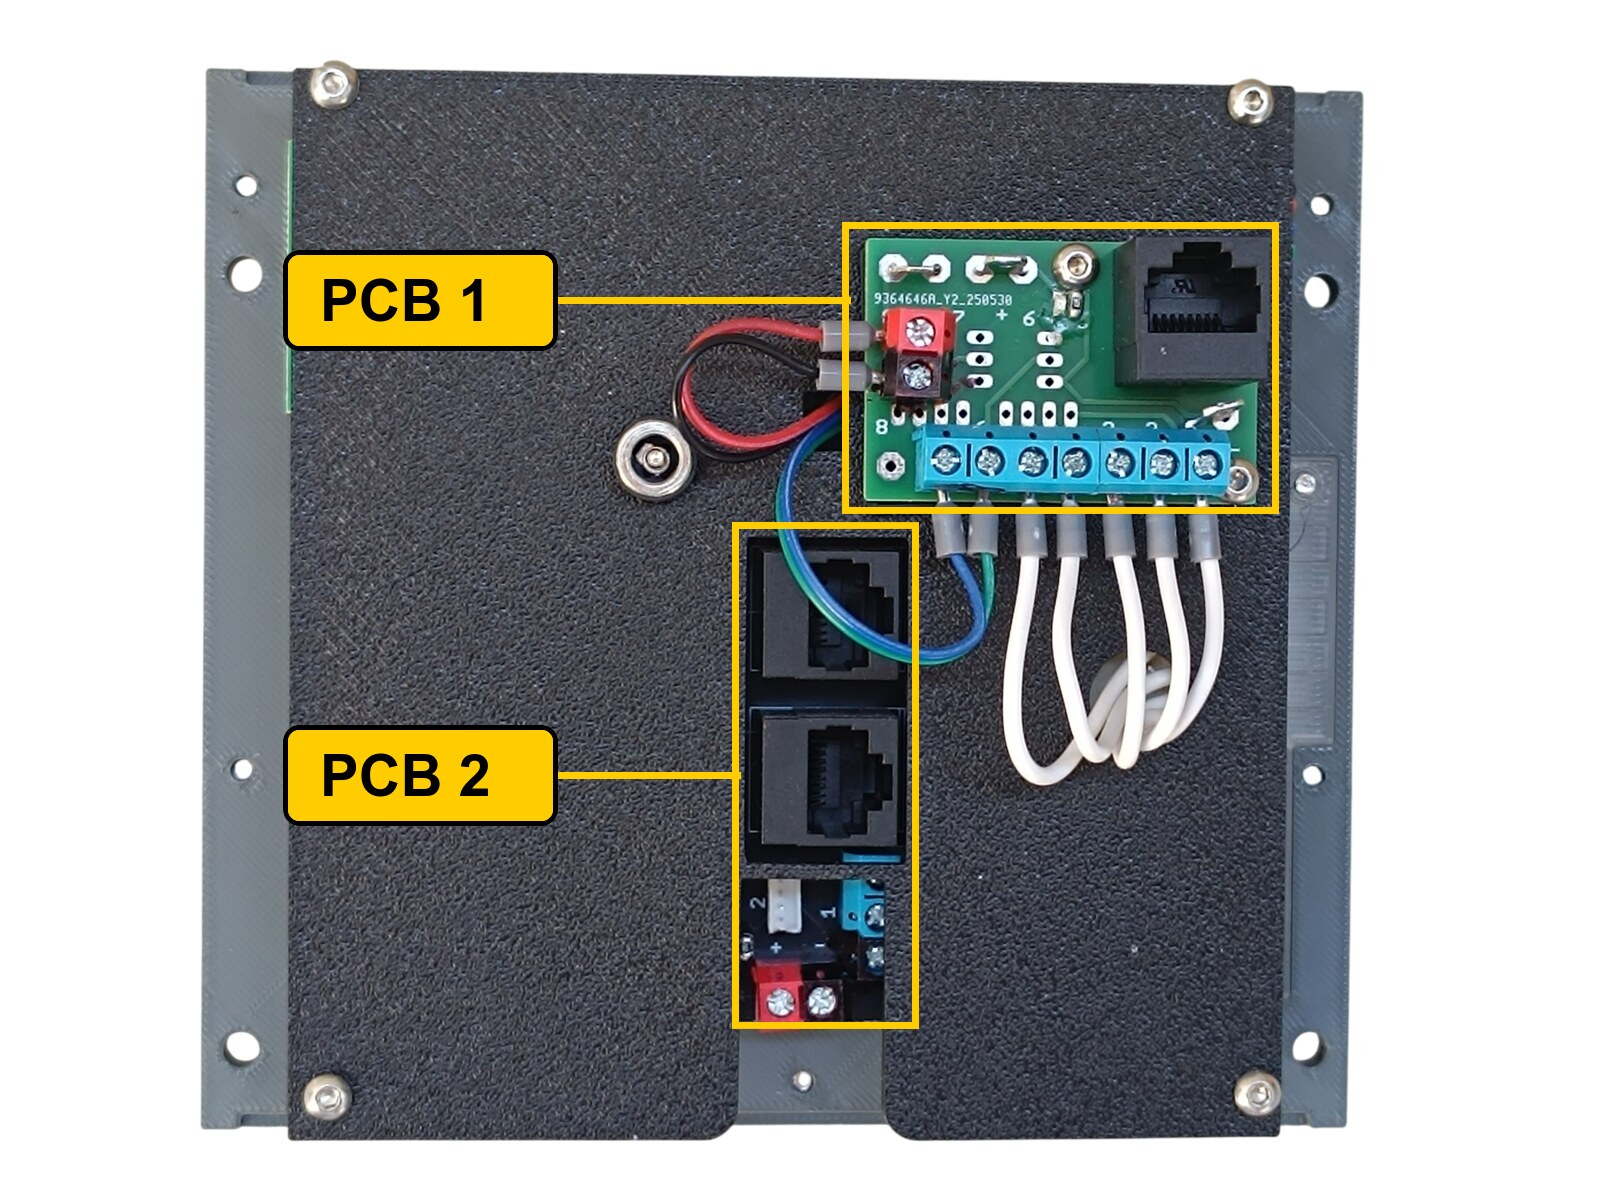
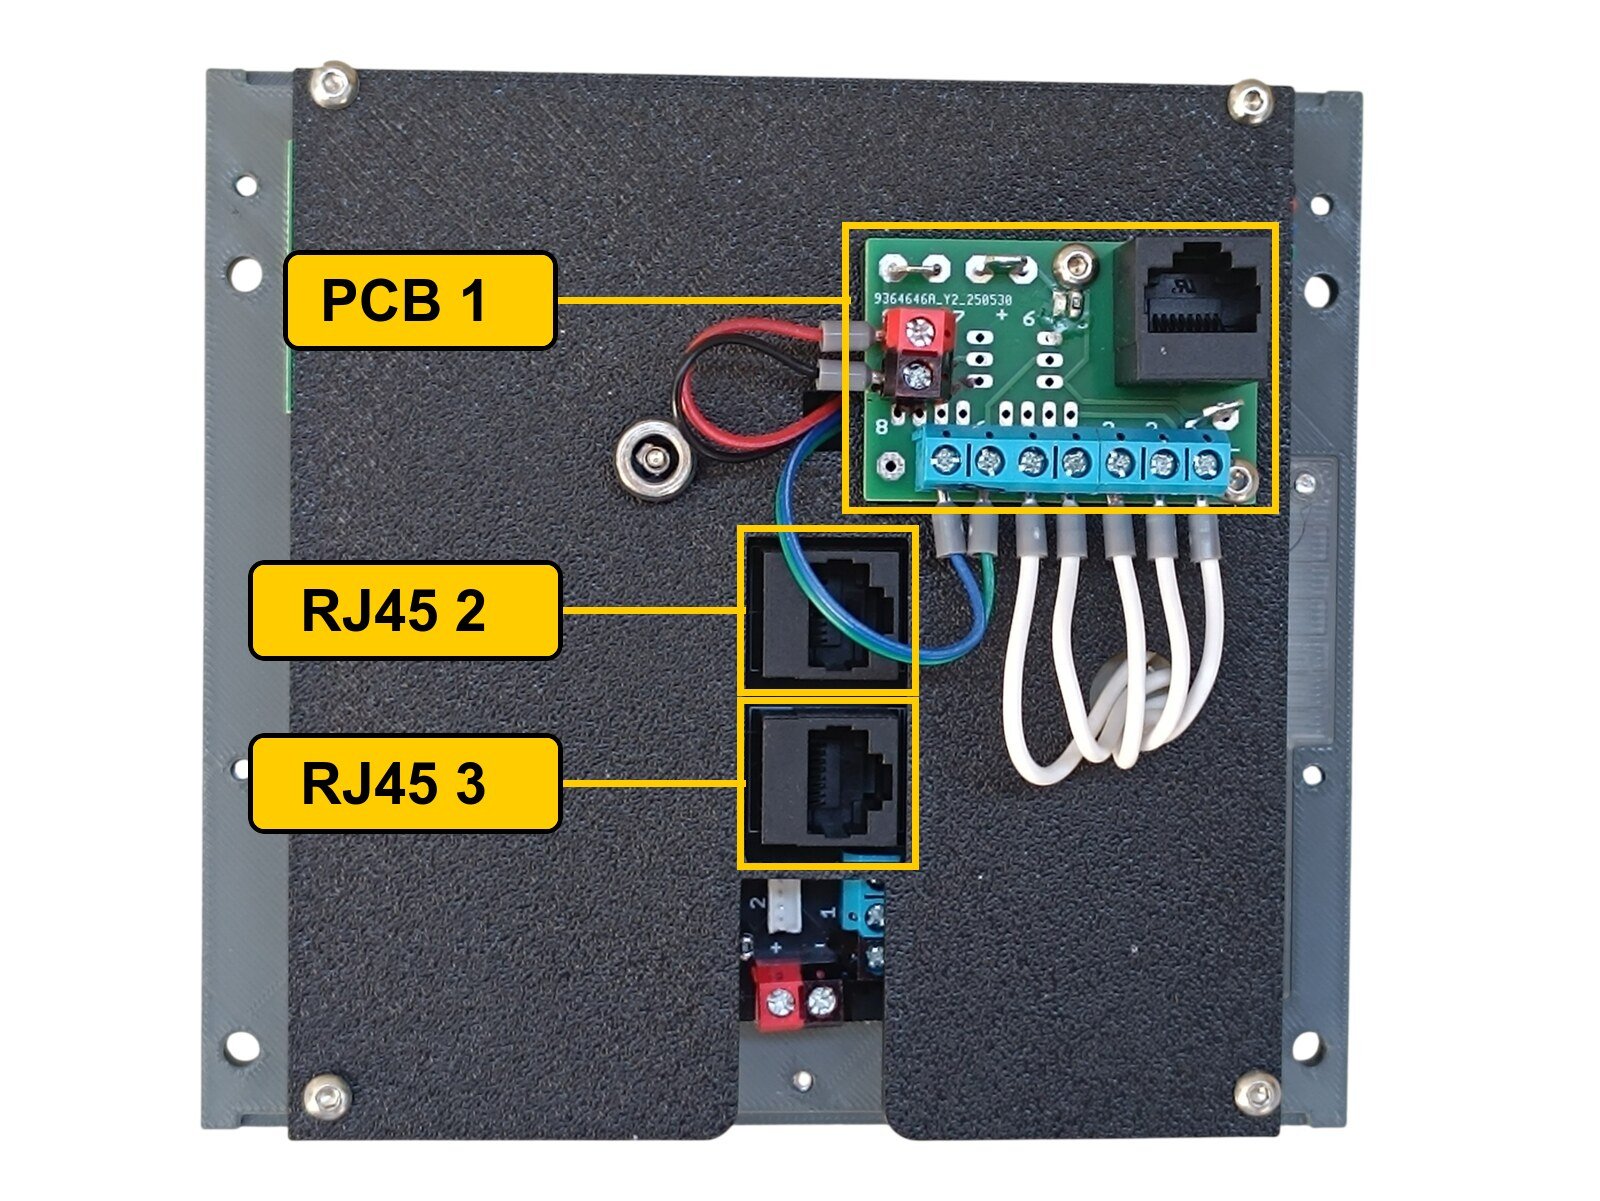
docs: label the two keyboard RJ45 sockets on the IRS Display Unit wiring
Adds the MakerWorld link and replaces the single PCB 2 marker with RJ45 2
(socket A2) and RJ45 3 (socket A1), since both sockets are on the same board.

Changed region(s): [[0.1562, 0.4313, 0.5938, 0.8626]]

diff --git a/docs/models/14-irs-display-unit.md b/docs/models/14-irs-display-unit.md
@@ -1,5 +1,7 @@
 # 14. IRS Display Unit
 
+[📦 Download the printable model on MakerWorld](https://makerworld.com/en/models/3222680-boeing-737-overhead-irs-display-unit)
+
 [← Back to model list](README.md)
 
 ---
@@ -121,17 +123,17 @@ Mounting is shown in [step 3](#3-bottom-panel--diffuser-rotary-switches-lcd-and-
 
 Both PCBs reach the same MEGA 2560 — `Overhead_2a` — and the panel takes **three** Ethernet patch cables to the [RJ45 Hub Shield](../pcb/rj45-hub-shield.md), because the keyboard board has two RJ45 sockets of its own.
 
-| PCB | Patch cable goes to | Connections used |
+| Cable | Patch cable goes to | Connections used |
 |---|---|---|
 | **PCB 1** | socket **D0** on **Overhead_2a** | pins 1–7 |
-| **PCB 2** | socket **A1** on **Overhead_2a** | pins 1–3 and 5–8 |
-| **PCB 2** | socket **A2** on **Overhead_2a** | pins 1–8 |
+| **RJ45 2** | socket **A2** on **Overhead_2a** | pins 1–8 |
+| **RJ45 3** | socket **A1** on **Overhead_2a** | pins 1–3 and 5–8 |
 
 The socket labels **D0–D6**, **A1** and **A2** are silkscreened on the hub shield.
 
-<img src="../../images/panels/14-irs-display-wiring-pcbs.jpg" alt="Rear of the panel with the two PCBs marked" width="700">
+<img src="../../images/panels/14-irs-display-wiring-pcbs.jpg" alt="Rear of the panel with the PCB and the two RJ45 sockets marked" width="700">
 
-The rear of the panel. **PCB 1** is the green board with the blue screw terminals. **PCB 2** is the keyboard board underneath — only its two RJ45 sockets and its connector edge show through the cut-out. Of those two sockets, the one **nearer the screw terminals** is the one on **A1**.
+The rear of the panel. **PCB 1** is the green board with the blue screw terminals. **RJ45 2** and **RJ45 3** are the two sockets of the keyboard board underneath — of that board only the two sockets and the connector edge show through the cut-out.
 
 ### PCB 1 — socket D0 on Overhead_2a
 
@@ -147,7 +149,20 @@ The rear of the panel. **PCB 1** is the green board with the blue screw terminal
 
 **The LCD is powered from this board.** A KF301 2-pin screw terminal is fitted at the **pin 8** position and carries nothing but **5 V** and **ground** across to the interface module. Pin 8 itself is not used as an input.
 
-### PCB 2 — socket A1 on Overhead_2a
+### RJ45 2 — socket A2 on Overhead_2a
+
+| Pin | Key |
+|---:|---|
+| 1 | 8 |
+| 2 | 7 |
+| 3 | 6 |
+| 4 | 5 |
+| 5 | 4 |
+| 6 | 3 |
+| 7 | 2 |
+| 8 | 1 |
+
+### RJ45 3 — socket A1 on Overhead_2a
 
 | Pin | Connection |
 |---:|---|
@@ -162,19 +177,6 @@ The rear of the panel. **PCB 1** is the green board with the blue screw terminal
 Pin 4 is not used. Pin 2 is the ZH header, not a screw terminal.
 
 **The GPS annunciator on pin 2 belongs to the [IRS Mode Select Unit](13-irs-mode-select-unit.md).** All eight headers of that panel's LED driver are taken by its own annunciators, so its GPS annunciator is wired across to this board.
-
-### PCB 2 — socket A2 on Overhead_2a
-
-| Pin | Key |
-|---:|---|
-| 1 | 8 |
-| 2 | 7 |
-| 3 | 6 |
-| 4 | 5 |
-| 5 | 4 |
-| 6 | 3 |
-| 7 | 2 |
-| 8 | 1 |
 
 <img src="../../images/panels/14-irs-display-wiring-rear.png" alt="The panel with the backlight panel removed" width="700">
 

diff --git a/docs/models/README.md b/docs/models/README.md
@@ -160,7 +160,7 @@ These are not panels. The frame carries the whole overhead, and the components b
 <td><a href="14-irs-display-unit.md"><img src="../../images/panels/14-irs-display-photo-1-front.jpg" width="200"></a></td>
 <td align="right">14</td>
 <td>IRS Display Unit</td>
-<td>🚧</td>
+<td><a href="https://makerworld.com/en/models/3222680-boeing-737-overhead-irs-display-unit">Model</a></td>
 <td><a href="14-irs-display-unit.md">Notes</a></td>
 </tr>
 </tbody>
